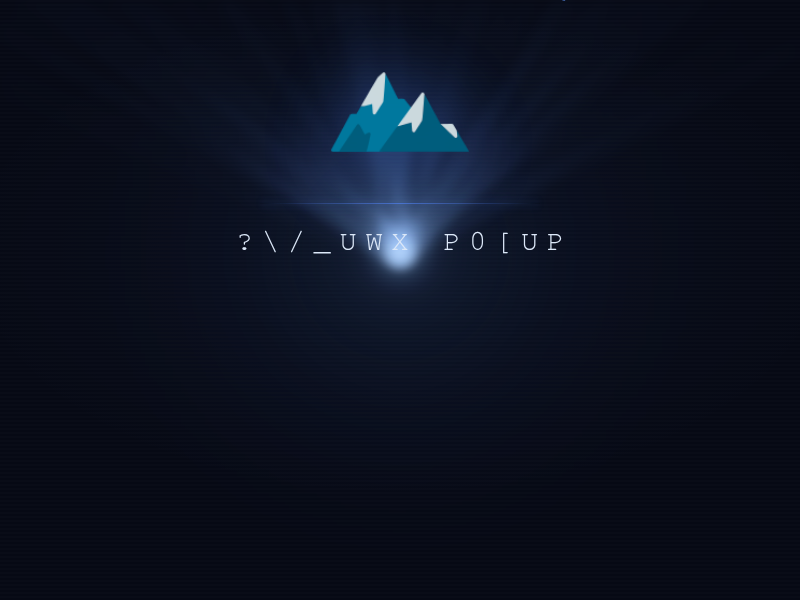
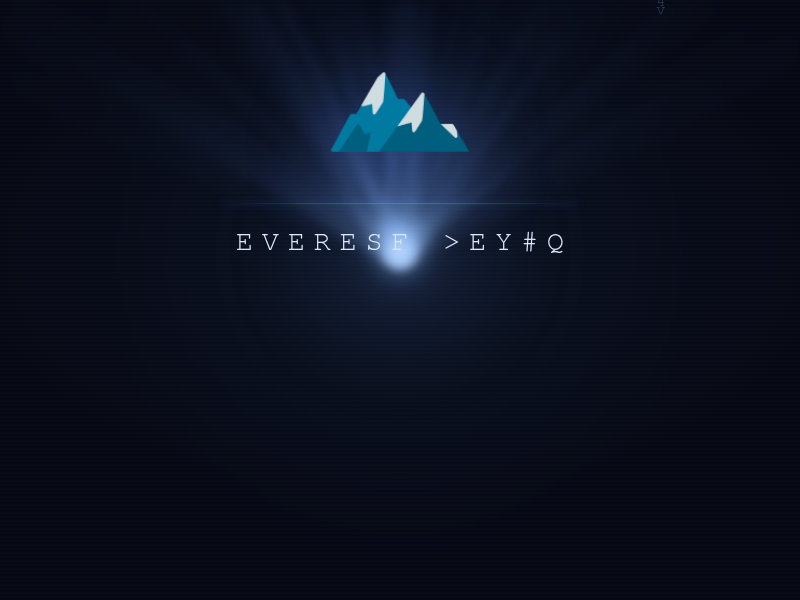
deploy: 4437f00f07ef708a39310c008595b9bcf039456d

Changed region(s): [[0.2812, 0.24, 0.5312, 0.45], [0.5312, 0.39, 0.7188, 0.42]]

diff --git a/index.html b/index.html
@@ -78,8 +78,8 @@
       </div>
     
       <div class="image-container">
-        <img src="moneymessage-blogvl7tjyjvsfthobttze52w36wwiz34hrfcmorgvdzb6hikucb7aqd.onion.png" alt="moneymessage-blogvl7tjyjvsfthobttze52w36wwiz34hrfcmorgvdzb6hikucb7aqd.onion.png" class="image">
-        <div class="caption"><b>moneymessage</b>: blogvl7tjyjvsfthobttze52w36wwiz34hrfcmorgvdzb6hikucb7aqd.onion</div>
+        <img src="ransomhouse-zohlm7ahjwegcedoz7lrdrti7bvpofymcayotp744qhx6gjmxbuo2yid.onion.png" alt="ransomhouse-zohlm7ahjwegcedoz7lrdrti7bvpofymcayotp744qhx6gjmxbuo2yid.onion.png" class="image">
+        <div class="caption"><b>ransomhouse</b>: zohlm7ahjwegcedoz7lrdrti7bvpofymcayotp744qhx6gjmxbuo2yid.onion</div>
       </div>
     
       <div class="image-container">

diff --git a/ransomhouse-zohlm7ahjwegcedoz7lrdrti7bvpofymcayotp744qhx6gjmxbuo2yid.onion.html b/ransomhouse-zohlm7ahjwegcedoz7lrdrti7bvpofymcayotp744qhx6gjmxbuo2yid.onion.html
@@ -1,0 +1,1 @@
+<!doctype html><html lang="en"><head><meta charset="utf-8"/><link rel="icon" href="/favicon.ico"/><meta name="viewport" content="width=device-width,initial-scale=1"/><meta name="theme-color" content="#000000"/><meta name="description" content="©Ransomhouse"/><link rel="apple-touch-icon" href="/logo152.png"/><link rel="manifest" href="/manifest.json"/><title>©RansomHouse</title><script defer="defer" src="/static/js/main.0c97bf77.js"></script><link href="/static/css/main.7b92fb5f.css" rel="stylesheet"></head><body><noscript>You need to enable JavaScript to run this app.</noscript><div id="root"></div></body></html>
